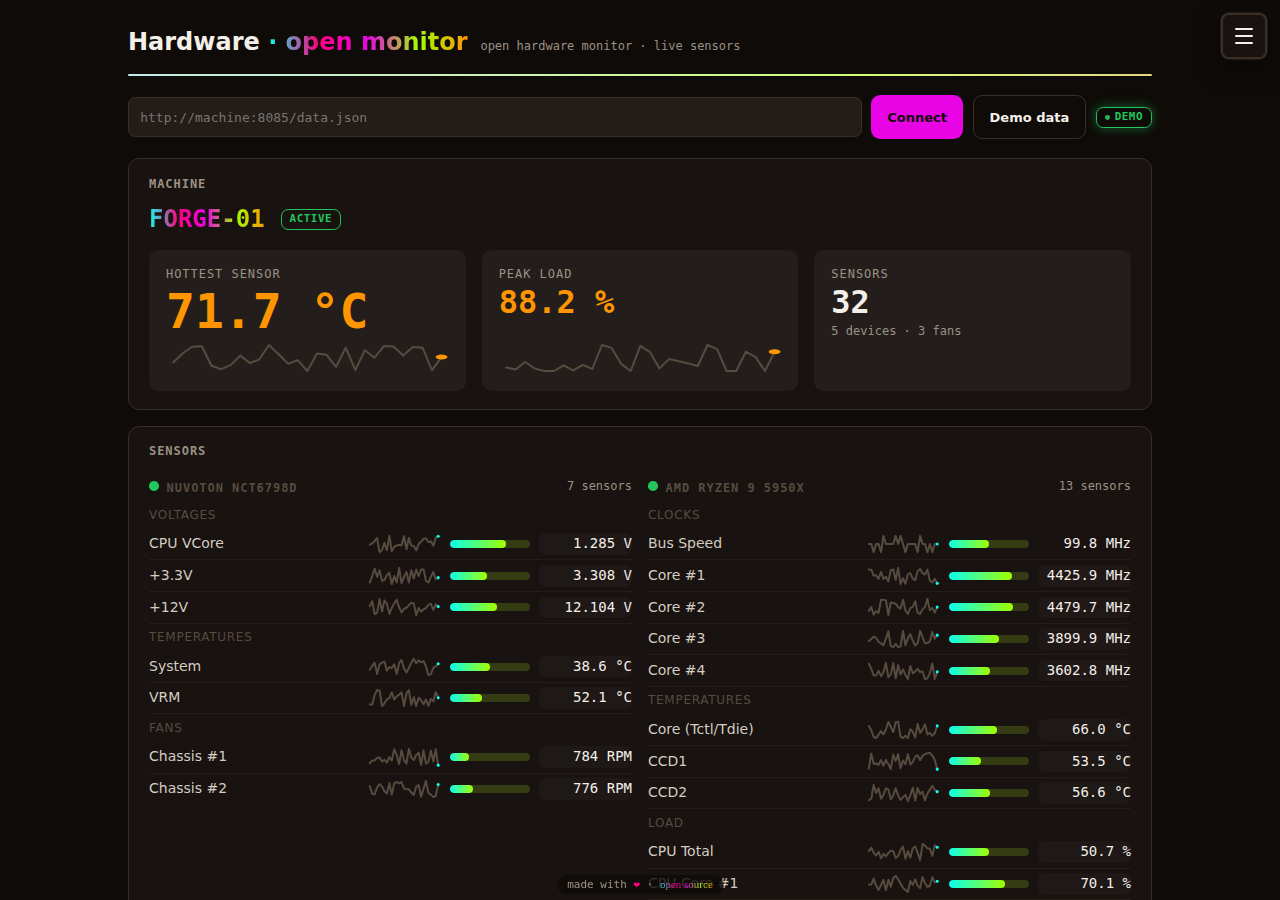
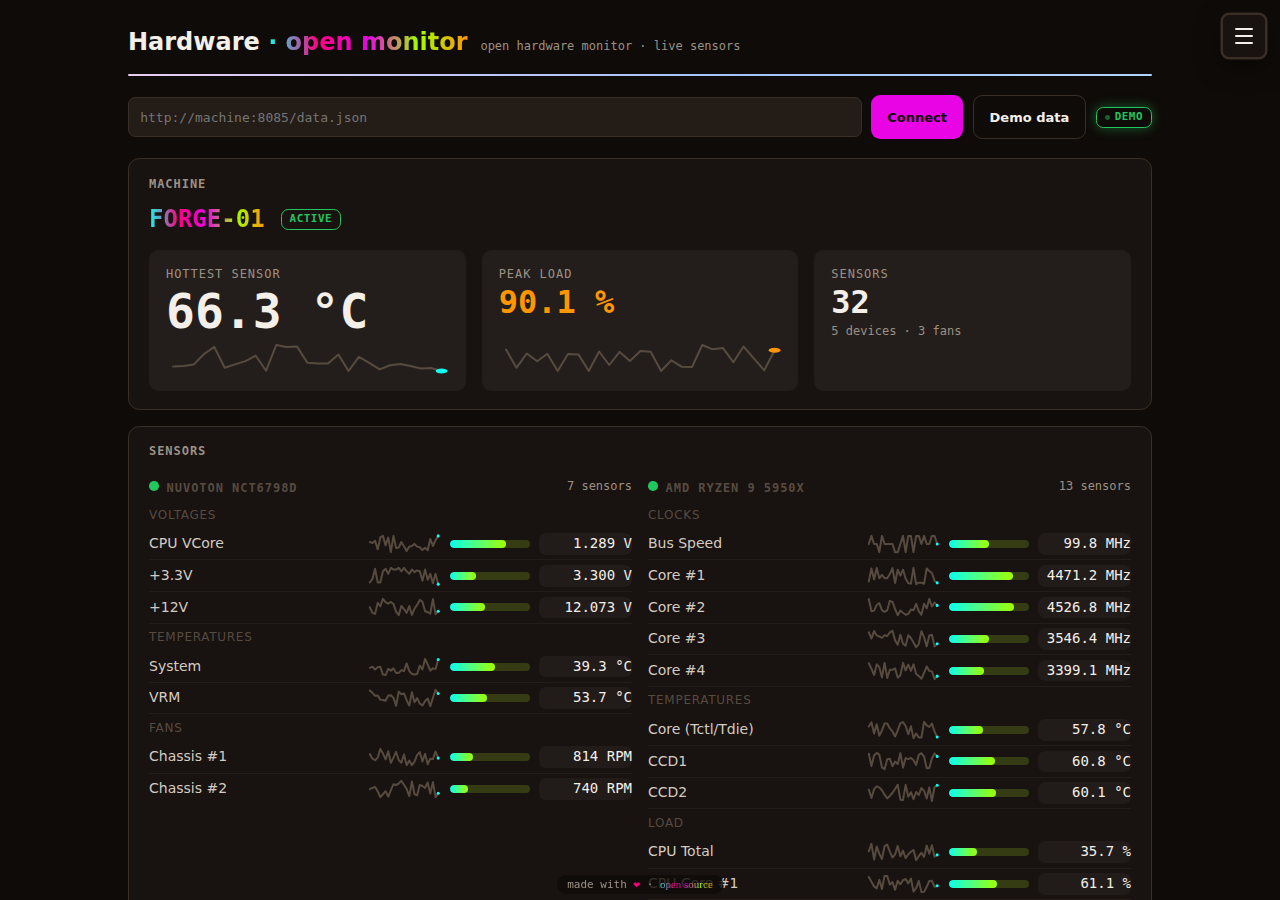
docs: six-variant theme matrix — screenshots and READMEs
Reshoots the dashboard in all six theme x mode combinations (warm,
terminal, zine, each light and dark) and replaces the two-shot tables
in both READMEs with a 3x2 matrix. Counts and claims updated: 71 bench
assertions, six WCAG-validated variants.

Claude-Session: https://claude.ai/code/session_01TcrK5fgeiAvUpUafZNBn8C

diff --git a/README.md b/README.md
@@ -9,9 +9,14 @@ Demo deployment: **https://ohm.thetechmargin.com** — `?demo=1` loads a
 generated 32-sensor feed, so no hardware or install is required to evaluate
 it.
 
-| Dark theme (default) | Terminal theme |
-|---|---|
-| ![Dashboard, dark theme: hero stat tiles with trend sparklines, sensor rows with inline sparklines and threshold-tinted meters](docs/screenshots/dashboard-dark.png) | ![Dashboard, terminal theme: identical hero tiles and sparklines, every color re-derived from the token layer](docs/screenshots/dashboard-terminal.png) |
+Three theme worlds × light and dark modes — six variants, one token
+layer, all WCAG-AA-checked by the in-browser bench:
+
+| | Dark mode | Light mode |
+|---|---|---|
+| **Warm** | ![Warm dark: hero stat tiles with trend sparklines on a warm near-black ground](docs/screenshots/dashboard-dark.png) | ![Warm light: the same layout on ivory paper, neon accents inked down](docs/screenshots/dashboard-warm-light.png) |
+| **Terminal** | ![Terminal dark: CRT phosphor — green-tinted black with pale phosphor ink](docs/screenshots/dashboard-terminal-dark.png) | ![Terminal light: warm paper and mono type](docs/screenshots/dashboard-terminal.png) |
+| **Zine** | ![Zine dark: inverted photocopy — black paper, white ink borders, neon spots](docs/screenshots/dashboard-zine-dark.png) | ![Zine light: white photocopy paper, hard black ink borders, magenta and violet](docs/screenshots/dashboard-zine.png) |
 
 ## Scope of the fork
 
@@ -21,8 +26,9 @@ it.
   the poll history, and a hero band of stat tiles (activity, hottest
   temperature, peak load, counts).
 - **Design system** (`web/ttm/`) — a single token layer (colors, type,
-  spacing, motion, z-index) consumed by one component library; two themes
-  verified against WCAG 2.1 AA by computed contrast checks; site-wide
+  spacing, motion, z-index) consumed by one component library; three theme
+  worlds, each in light and dark, all six verified against WCAG 2.1 AA
+  by computed contrast checks; site-wide
   whitelabeling via published config, with per-visitor overrides taking
   precedence. The application ships unbranded; identity is configuration.
 - **Publishing bridge** (`web/bridge.js`) — generates a SpaceAPI v14
@@ -33,14 +39,14 @@ it.
   [OKW](https://github.com/iop-alliance/OpenKnowWhere) manufacturing
   capabilities, for registration on
   [Maps of Making](https://maps.thetechmargin.com).
-- **Test bench** (`web/test/`) — 57 in-browser assertions covering the
+- **Test bench** (`web/test/`) — 71 in-browser assertions covering the
   sensor core, the bridge (including the extension contracts), theming,
   the whitelabel runtime, and WCAG contrast computed from live token
   values. Runs from `file://` or the deployed site; no build step.
 
 | Component gallery (`/components/`) | Test bench (`/test/`) |
 |---|---|
-| ![Component gallery: type, color, buttons, forms, data primitives, sensor rows with sparklines, stat tiles](docs/screenshots/components.png) | ![Test bench with 57 passing assertions](docs/screenshots/test-bench.png) |
+| ![Component gallery: type, color, buttons, forms, data primitives, sensor rows with sparklines, stat tiles](docs/screenshots/components.png) | ![Test bench with 71 passing assertions](docs/screenshots/test-bench.png) |
 
 ## Keyboard & accessibility
 
@@ -50,8 +56,8 @@ The dashboard is fully keyboard-operable: <kbd>d</kbd> demo ·
 <kbd>j</kbd>/<kbd>k</kbd> walk the sensor tree (focus survives the poll
 re-render). Every page opens with a skip-to-content link; the drawer
 menu manages focus per the ARIA disclosure pattern; WCAG 2.1 AA contrast
-is computed from live token values by the test bench on every run, in
-both themes; `prefers-reduced-motion` collapses all animation and slows
+is computed from live token values by the test bench on every run, across
+all six theme variants; `prefers-reduced-motion` collapses all animation and slows
 polling. The full table lives in [`web/README.md`](web/README.md).
 
 ## Demo URLs

diff --git a/web/README.md b/web/README.md
@@ -9,9 +9,14 @@ demo feed, `/components/` for the design-stack gallery, `/test/` for the
 self-test bench, `/admin/` for operators). Also served at
 https://openhardwaremonitor.vercel.app.
 
-| Dark (default) | Terminal theme |
-|---|---|
-| ![Dashboard, warm-dark theme](../docs/screenshots/dashboard-dark.png) | ![Dashboard, terminal theme](../docs/screenshots/dashboard-terminal.png) |
+| | Dark mode | Light mode |
+|---|---|---|
+| **Warm** | ![Warm dark](../docs/screenshots/dashboard-dark.png) | ![Warm light](../docs/screenshots/dashboard-warm-light.png) |
+| **Terminal** | ![Terminal dark (CRT phosphor)](../docs/screenshots/dashboard-terminal-dark.png) | ![Terminal light (paper)](../docs/screenshots/dashboard-terminal.png) |
+| **Zine** | ![Zine dark (inverted photocopy)](../docs/screenshots/dashboard-zine-dark.png) | ![Zine light (photocopy)](../docs/screenshots/dashboard-zine.png) |
+
+Mode follows the OS by default (Auto) and is overridable from the menu;
+every combination is WCAG-AA-verified by `/test/` on each run.
 
 ## Use cases
 
